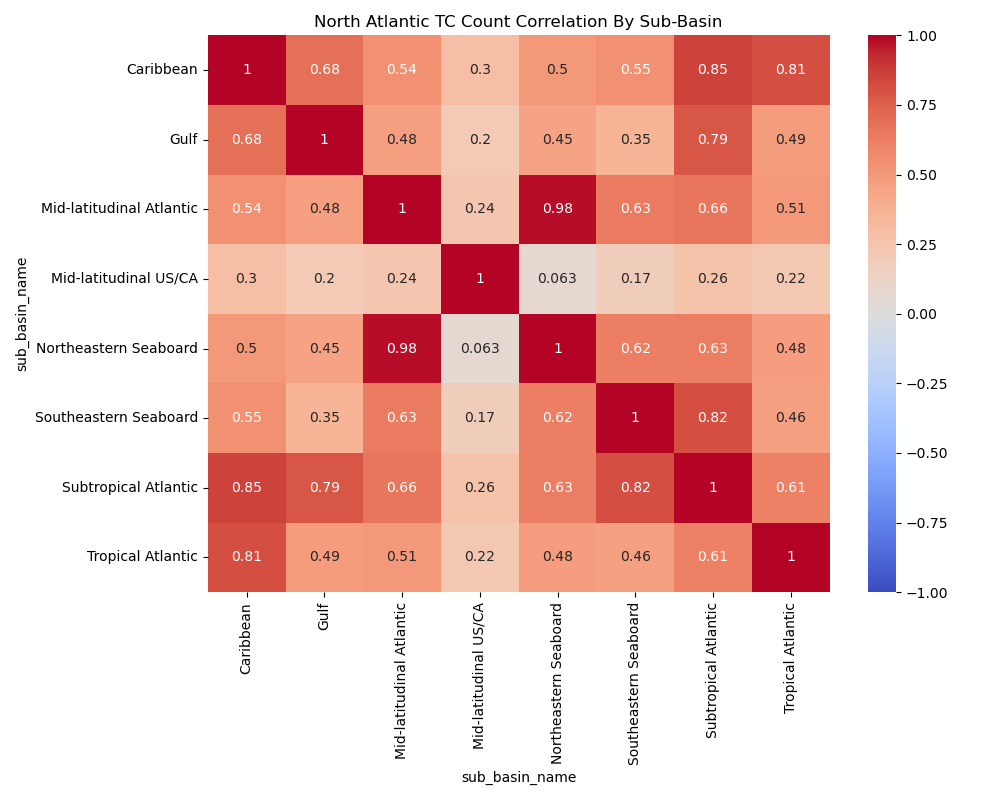
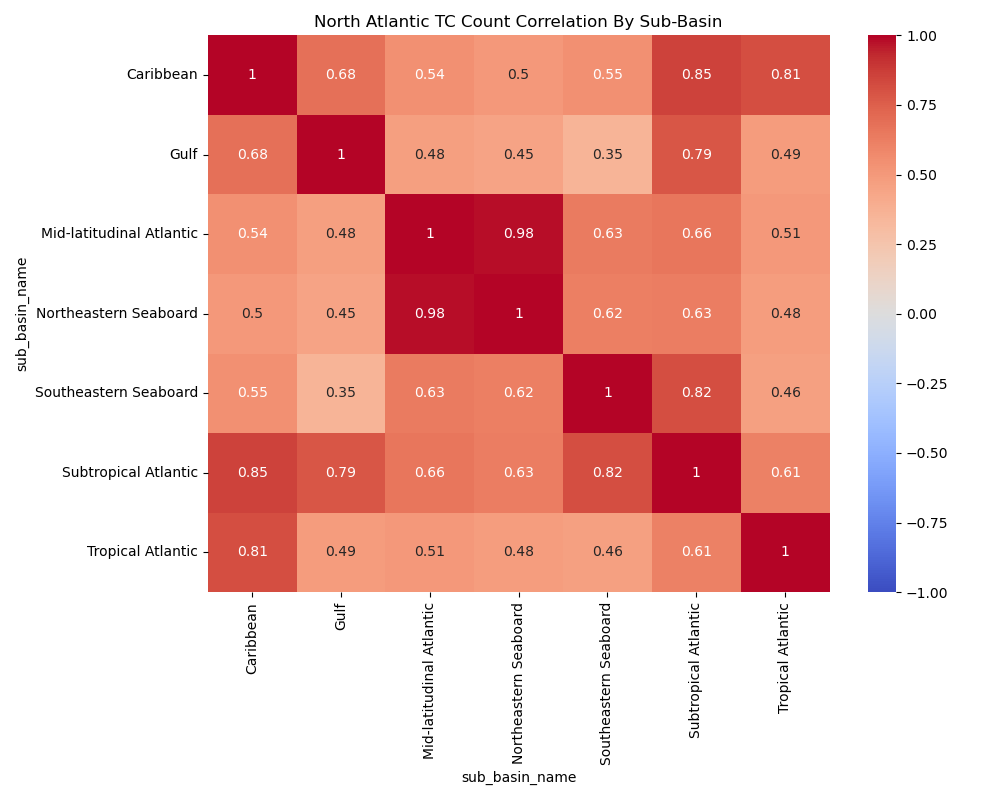
fixed TC array script and added plots

diff --git a/capstone project/annual_TC_array.py b/capstone project/annual_TC_array.py
@@ -6,6 +6,9 @@ import geopandas as gpd
 from shapely.geometry import Polygon, MultiPolygon, Point
 from shapely.ops import transform
 import seaborn as sns
+import shapely.ops
+import cartopy.crs as ccrs
+import matplotlib.patheffects as pe
 
 # path to the dataset
 ClassifiedData = r"C:\Users\allcl\OneDrive\Desktop\desktop\grad school\0. Research\SyCLoPS\dataset\SyCLoPS_classified_ERA5_1940_2024.parquet"
@@ -109,7 +112,7 @@ sub_basins["geometry"] = sub_basins["geometry"].buffer(0)
 # remove empty geometries
 sub_basins = sub_basins[~sub_basins.geometry.is_empty]
 
-# filter points to North Atlantic only and add subbasin assignments to points
+# make points a geo data frame
 points = gpd.GeoDataFrame(
     dfc_sub, 
     geometry = gpd.points_from_xy(dfc_sub.LON, dfc_sub.LAT),
@@ -128,13 +131,18 @@ points_natl = gpd.sjoin(
 )
 points_natl = points_natl.drop(columns=["index_right"])
 
+# filter out Arctic and CONUS subbasin
+exclude_subbasins = ["Arctic", "Mid-latitudinal US/CA"] 
+sub_basins_filtered = sub_basins[~sub_basins["sub_basin_name"].isin(exclude_subbasins)]
+
 # assign each point to its correct subbasin
 points_natl_sub = gpd.sjoin(
     points_natl,
-    sub_basins,
+    sub_basins_filtered,
     predicate="within",
     how="left"
 )
+points_natl_sub = points_natl_sub.drop(columns=["index_right"])
 
 # aggregate TC counts by year
 counts = (
@@ -165,33 +173,77 @@ sns.heatmap(
     vmax=1
 )
 
-
 plt.title("North Atlantic TC Count Correlation By Sub-Basin")
 plt.tight_layout()
 plt.savefig("./capstone project/NAtlantic_sub_basins_correlation_matrix.png")
 plt.show()
 
+# shift longitude for next plots
+def shift_lon(geom):
+    return shapely.ops.transform(
+        lambda x, y: (((x + 180) % 360) - 180, y),
+        geom
+    )
 
+sub_basins_filtered["geometry"] = sub_basins_filtered["geometry"].apply(shift_lon)
+basins["geometry"] = basins["geometry"].apply(shift_lon)
+points_natl_sub["geometry"] = points_natl_sub["geometry"].apply(shift_lon)
 
+# plot TC points over subbasin map
+# get latitude bounds from the points
+min_lat = points_natl_sub.geometry.y.min()
+max_lat = points_natl_sub.geometry.y.max()
 
+# longitude bounds
+min_lon = points_natl_sub.geometry.x.min()
+max_lon = points_natl_sub.geometry.x.max()
 
+fig = plt.figure(figsize=(10,8))
+ax = plt.axes(projection=ccrs.PlateCarree())
 
-# longitude conversion
-#import shapely.ops
-#def shift_lon(geom):
-#    return shapely.ops.transform(
-#        lambda x, y: (((x + 180) % 360) - 180, y),
-#        geom
-#    )
+# set map extent
+ax.set_extent([min_lon-5, max_lon+5, min_lat-5, max_lat+2], crs=ccrs.PlateCarree())
 
-# shift lon
-#sub_basins["geometry"] = sub_basins["geometry"].apply(shift_lon)
+# coastlines
+ax.coastlines(resolution="50m", linewidth=1)
 
+# plot subbasin boundaries only
+sub_basins_filtered.boundary.plot(
+    ax=ax,
+    color="black",
+    linewidth=1,
+    transform=ccrs.PlateCarree()
+)
 
+# plot TC points
+points_natl_sub.plot(
+    ax=ax,
+    color="lightblue",
+    markersize=1.5,
+    alpha=0.6,
+    transform=ccrs.PlateCarree()
+)
 
+# add labels for each subbasin
+for idx, row in sub_basins_filtered.iterrows():
+    label_point = row.geometry.representative_point()
 
+    ax.text(
+        label_point.x,
+        label_point.y,
+        row["sub_basin_name"],
+        transform=ccrs.PlateCarree(),
+        fontsize=9,
+        fontweight="bold",
+        ha="center",
+        color="black",
+        path_effects=[pe.withStroke(linewidth=3, foreground="white")]
+    )
 
+plt.title("TCs Points per North Atlantic Sub-Basins")
+plt.xlabel("Longitude")
+plt.ylabel("Latitude")
 
-
-
-
+plt.tight_layout()
+plt.savefig("./capstone project/NAtlantic_TC_count_sub_basins.png")
+plt.show()
